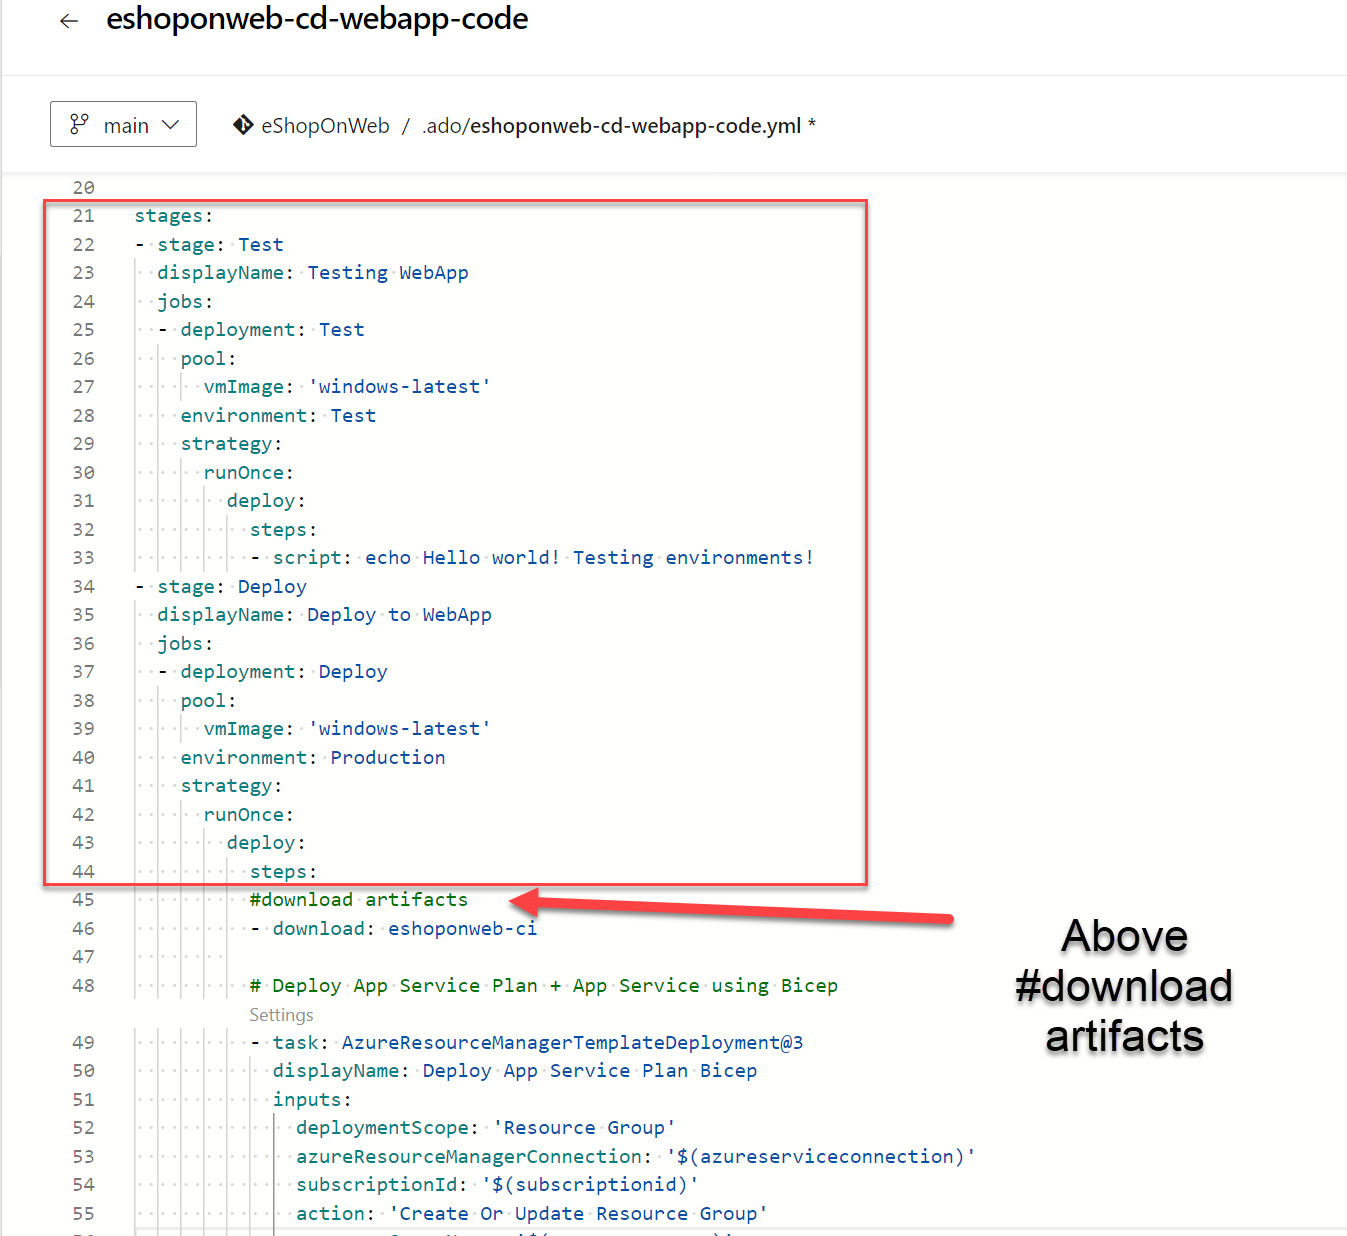
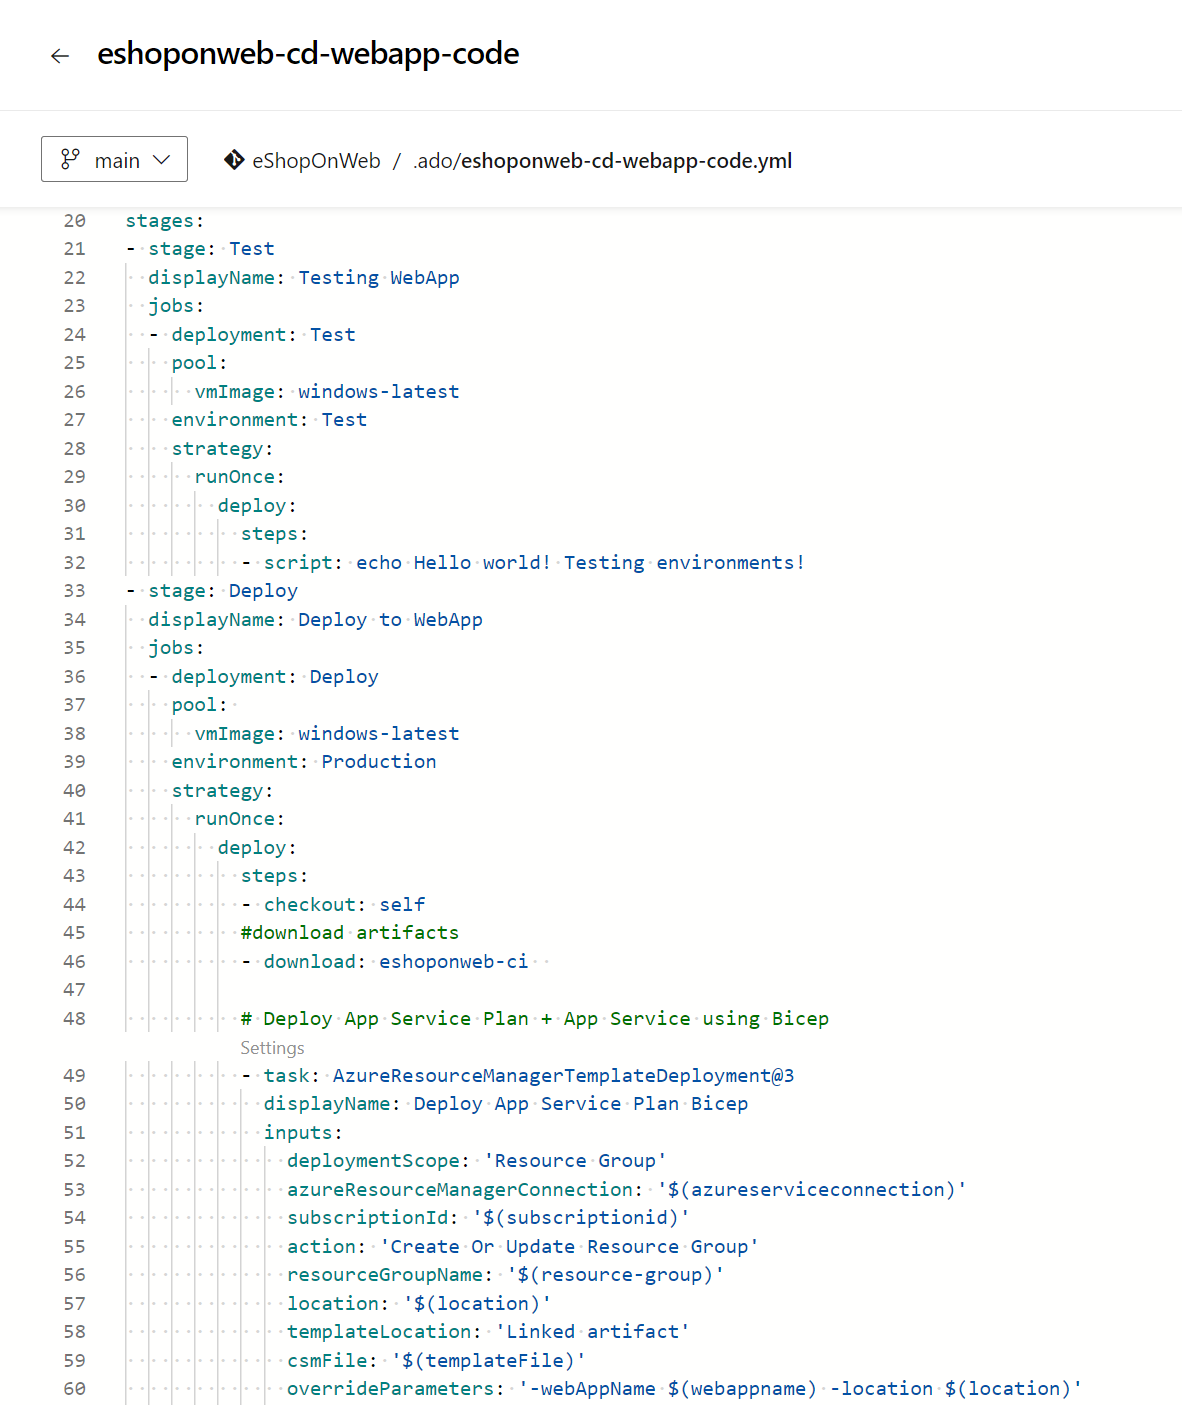
lab 4 and 5 fixes

Changed region(s): [[0.0305, 0.1537, 0.9137, 1.0], [0.0609, 0.0, 0.4569, 0.0615], [0.0305, 0.0922, 0.6701, 0.123]]

diff --git a/Instructions/Labs/APL2001_M05_L05_Extend_a_Pipeline_to_Use_Multiple_Templates.md b/Instructions/Labs/APL2001_M05_L05_Extend_a_Pipeline_to_Use_Multiple_Templates.md
@@ -145,7 +145,7 @@ You'll need an Azure subscription, Azure DevOps organization, and the eShopOnWeb
 
 1. Go to **Pipelines > Pipelines**.
 
-1. Edit the **eshoponweb-ci.yml** file.
+1. Edit the **eshoponweb-ci** pipeline.
 
 1. Remove everything above the **jobs** section.
 
@@ -169,7 +169,7 @@ You'll need an Azure subscription, Azure DevOps organization, and the eShopOnWeb
 
 1. Go to **Pipelines > Pipelines**.
 
-1. Edit the **eshoponweb-cd-webapp-code.yml** file.
+1. Edit the **eshoponweb-cd-webapp-code** pipeline.
 
 1. Remove everything above the **jobs** section.
 

diff --git a/Instructions/Labs/APL2001_M04_L04_Configure_and_Validate_Permissions.md b/Instructions/Labs/APL2001_M04_L04_Configure_and_Validate_Permissions.md
@@ -188,6 +188,7 @@ In this exercise, you will configure and validate approval and branch checks for
           runOnce:
             deploy:
               steps:
+              - checkout: self
     ```
 
     > [!NOTE]
